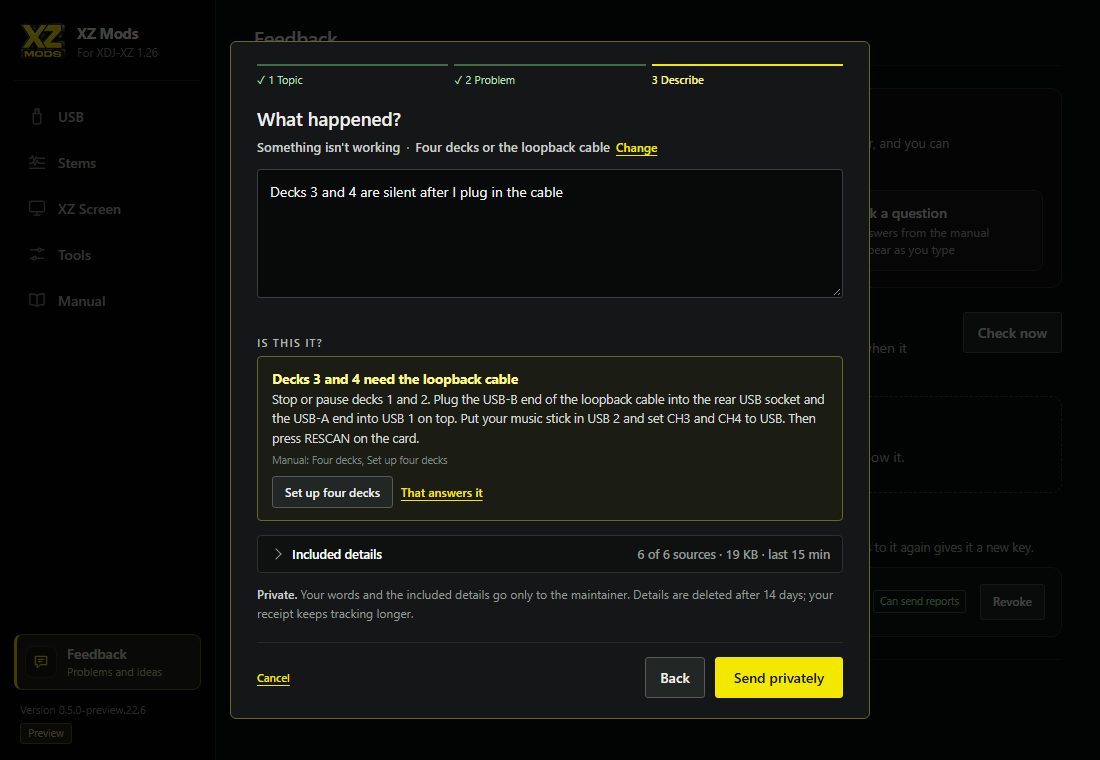
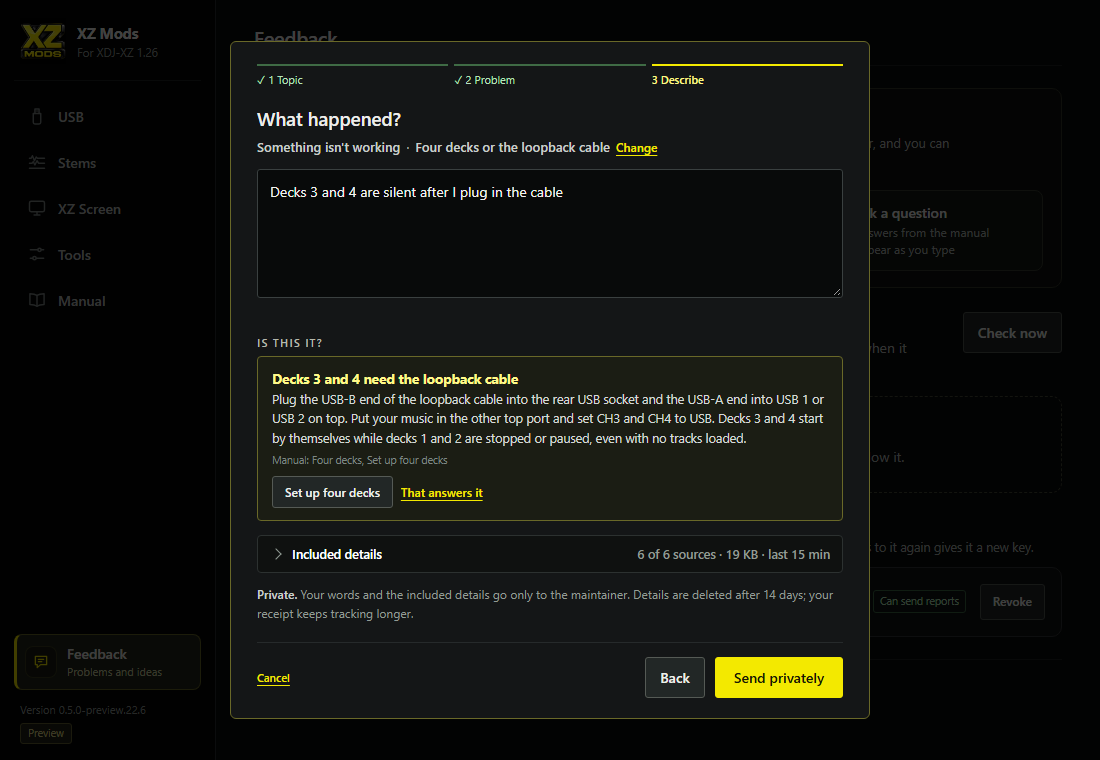
Feedback answer for silent decks 3 and 4: either top port, starts with empty decks

Changed region(s): [[0.2473, 0.5145, 0.7418, 0.6053]]

diff --git a/ui/support-kb.js b/ui/support-kb.js
@@ -13,7 +13,7 @@ window.XZ_SUPPORT_KB = Object.freeze({
       need: ['deck 3', 'deck 4', 'decks 3', '3 and 4', 'four deck', '4 deck', 'loopback', 'cable', 'ch3', 'ch4', 'no cable found', 'rescan'],
       terms: ['silent', 'no sound', 'not working', 'nothing', 'cable', 'loopback', 'usb 1', 'usb 2', 'rear', 'ch3', 'ch4', 'no cable found', 'not connected', 'start', 'set up', 'setup', 'connect'],
       not: ['e-8307', '8307', 'hub', 'sync', 'bpm', 'limit', 'master', 'ram'],
-      answer: 'Stop or pause decks 1 and 2. Plug the USB-B end of the loopback cable into the rear USB socket and the USB-A end into USB 1 on top. Put your music stick in USB 2 and set CH3 and CH4 to USB. Then press RESCAN on the card.',
+      answer: 'Plug the USB-B end of the loopback cable into the rear USB socket and the USB-A end into USB 1 or USB 2 on top. Put your music in the other top port and set CH3 and CH4 to USB. Decks 3 and 4 start by themselves while decks 1 and 2 are stopped or paused, even with no tracks loaded.',
       action: { id: 'OPEN_FOUR_DECK_SETUP', label: 'Set up four decks' },
       source: 'Manual: Four decks, Set up four decks'
     },
